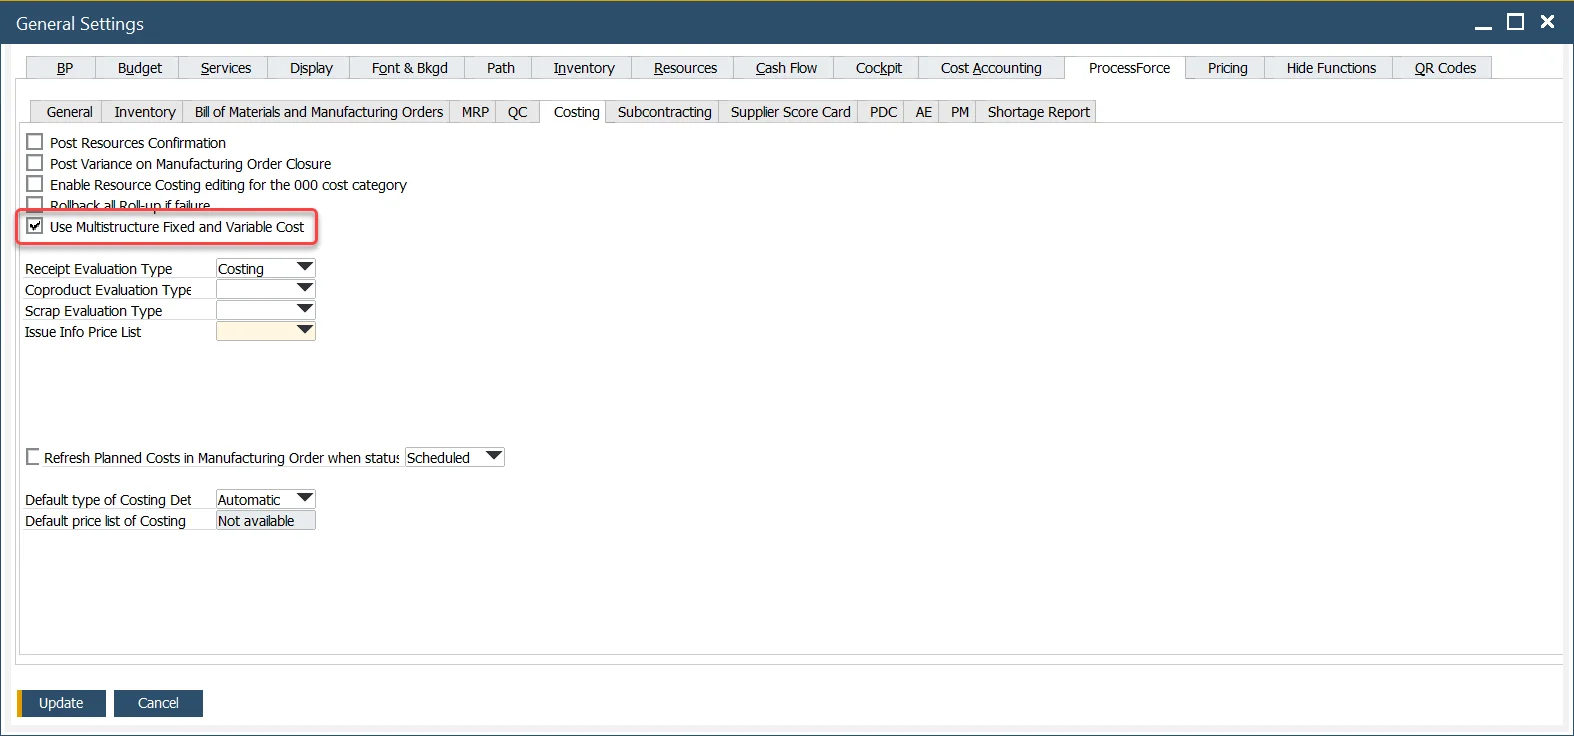
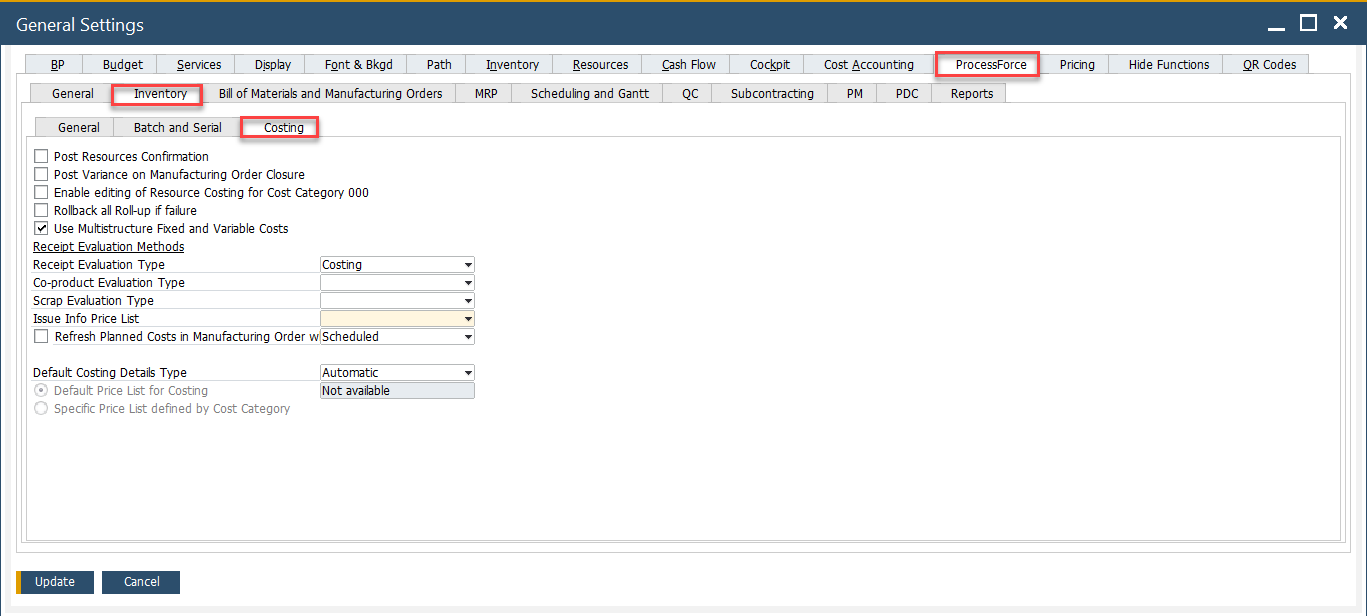
Update

Changed region(s): [[0.0, 0.0, 1.0, 1.0]]

diff --git a/docs/processforce/user-guide/supplier-score-card.md b/docs/processforce/user-guide/supplier-score-card.md
@@ -1,0 +1,116 @@
+---
+sidebar_position: 15
+---
+
+# Supplier Score Card
+
+The Supplier Score Card provides a structured and measurable way to evaluate supplier performance across key metrics such as quality, delivery accuracy, and timeliness. Using a weighted scorecard system, it helps identify strengths and areas for improvement, supporting better procurement decisions.
+
+---
+
+:::info caution
+    - The delivery and quantity calculations on the Supplier Score Card are based on the relationship between Purchase Order and Goods Receipt PO documents. It is crucial that a specific Purchase Order and corresponding Goods Receipt PO are linked correctly for the function to work properly. This can be achieved by creating a Goods Receipt Purchase Order using the "Copy To" option from a Purchase Order, or by linking the Purchase Order using the "Copy From" option in the Goods Receipt PO.
+    - Please note that dates are compared between the individual lines of the documents, not the document header dates.
+:::
+
+## Settings
+
+### General Settings
+
+To access Supplier Score Card, navigate to:
+
+:::info Path
+    Administration → System Initialization → General Settings → ProcessForce tab → Supplier Score Card tab
+:::
+
+➡ Learn more about [Supplier Score Card General Settings Options](./system-initialization/general-settings/reports-tab.md#supplier-score-card)
+
+## Supplier Score Card from Business Partner
+
+You can also access the form for a specific Business Partner from the Business Partner form header context menu (available only when the BP type is set to Supplier for this Business Partner).
+
+:::info Path
+Business Partners → Supplier Score Card
+:::
+
+### 1. Header
+
+  In this section, you can define additional settings for a specific Supplier related to delivery and quantity.
+
+    - No of Days Early and No of Days Late define a period before and after the order date in which delivery is still acceptable.
+
+        **Example**
+
+          - The order date is 01.07.2025
+          - No of Days Early: 1
+          - No of Days Late: 2
+          - Every delivery before 14.11.2016 will be deemed as early, and every delivery after 18.11.2016 will be considered late.
+    - Quantity Over % and Quantity Under % define a range of quantity of delivery that is still acceptable.
+
+        **Example**
+
+          - The ordered quantity is 108
+          - Quantity Over %: 10
+          - Quantity Under %: 5
+          - Every delivery less than 103 will be deemed too small, and delivery more than 119 will be considered too big.
+
+### 2. Summary
+
+    ![BP - SSC](./media/supplier-score-card/bp-ssc.webp)
+
+      - **Weighted Values**: These are preset in the General Settings and are based on key quality indicators such as the number of complaints, failed quality control checks, product returns, and similar metrics.
+      - **Months to Date**: Represents the total number of transactions recorded from the start of the current month up to today. For instance, if today is October 15, it includes transactions from October 1 to 15.
+      - **Previous Month**: Refers to the weighted values calculated for the entire preceding month.
+      - **Years to Date**: Denotes the accumulated weighted values from January 1 through the current date of the ongoing year.
+      - **Previous Year**: Captures the total weighted values for the full previous calendar year, from January to December.
+
+### 3. Details
+
+    ![Supplier Score Card Details](./media/supplier-score-card/bp-ssc-details.webp)
+
+    On this tab, the values from the Summary tab are broken down into specific weighted scorecard positions. The values in the Details tab are displayed solely based on specific settings and transactions, e.g., QC Tests, Returns, etc.
+
+    **Details tab Calculation**
+
+    Note Grade = Amount / Total and Weighted Score = Weight x Grade
+
+    |        Quality         |                        No of weighted                        |                                              Weighted Value                                              |
+    | :--------------------: | :----------------------------------------------------------: | :------------------------------------------------------------------------------------------------------: |
+    |   No. of Complaints    |      A = Total Number of Complaints (for this supplier)      | ( A / Total number of Complaints (for all suppliers) ) x No of Complaints (value from General Settings)  |
+    | No. of Failed QC Tests | B = Number of Failed Tests (QC Test has the status = Failed) | ( B / Total number of QC Tests (Passed + Failed) ) x No of Failed QC Tests (value from General Settings) |
+    |     No. of Returns     |                    C = Number of Returns                     |               ( C / Total number of GRPO's ) x No of Returns (value from General setting)                |
+
+    | Deliveries  |                                                         No of                                                         |                             Weighted Value                             |
+    | :---------: | :-------------------------------------------------------------------------------------------------------------------: | :--------------------------------------------------------------------: |
+    | No. On Time |              D = Total number of GRPOs where the GRPO Posting Date is = to Purchase Order Delivery Date               | ( D / Total number of GRPO ) x No on Time (value from General setting) |
+    |  No. Early  | E = Total number of GRPOs where the GRPO Posting Date - No of Days Early Value is < than Purchase Order Delivery Date |  ( E / Total number of GRPO ) x No Early (value from General setting)  |
+    |  No. Late   | F = Total number of GRPOs where the GRPO Posting Date + No of Days Late Value is → than Purchase Order Delivery Date  |  ( F / Total number of GRPO ) x No Late (value from General setting)   |
+
+    | Quantity  |                                              No of                                              |                            Weighted Value                             |
+    | :-------: | :---------------------------------------------------------------------------------------------: | :-------------------------------------------------------------------: |
+    | No. Equal |       G = a Total number of GRPOs where the Purchase Order and GRPO quantity are the same       | ( G / Total number of GRPO ) x No Equal (value from General Settings) |
+    | No. Over  | H = Total number of GRPO where the quantity is → the Purchase Order quantity + Quantity Over %  | ( H / Total number of GRPO ) x No Over (value from General Settings)  |
+    | No. Under | I = Total number of GRPO where the quantity is < the Purchase Order quantity - Quantity Under % | ( I / Total number of GRPO ) x No Under (value from General Settings) |
+
+### 4. Notes
+
+    You can add any relevant comments or observations related to the scorecard.
+
+    ![Notes](./media/supplier-score-card/bp-ssc-notes.webp)
+
+### 5. Attachment
+
+    Here you can add, display or delete files connected to the Score Card.
+
+    ![Attachments](./media/supplier-score-card/bp-ssc-attachments.webp)
+
+## Usage
+
+1. Activate the Supplier Score Card form.
+2. Select the supplier you wish to assess.
+3. Fill in exceptions like delivery delays or quantity discrepancies.
+4. Add document  as necessary for additional context.
+5. Find/load created Supplier's Score Card.
+6. Review Summary and Details.
+
+---

diff --git a/docs/processforce/user-guide/system-initialization/general-settings/reports-tab.md b/docs/processforce/user-guide/system-initialization/general-settings/reports-tab.md
@@ -72,78 +72,7 @@ You can also access the form for a specific Business Partner from the Business P
 Business Partners → Supplier Score Card
 :::
 
-#### 1. Header
-
-  In this section, you can define additional settings for a specific Supplier related to delivery and quantity.
-
-    - No of Days Early and No of Days Late define a period before and after the order date in which delivery is still acceptable.
-
-        **Example**
-
-          - The order date is 01.07.2025
-          - No of Days Early: 1
-          - No of Days Late: 2
-          - Every delivery before 14.11.2016 will be deemed as early, and every delivery after 18.11.2016 will be considered late.
-    - Quantity Over % and Quantity Under % define a range of quantity of delivery that is still acceptable.
-
-        **Example**
-
-          - The ordered quantity is 108
-          - Quantity Over %: 10
-          - Quantity Under %: 5
-          - Every delivery less than 103 will be deemed too small, and delivery more than 119 will be considered too big.
-
-#### 2. Summary
-
-    ![BP - SSC](./media/shortage-tab/bp-ssc.webp)
-
-      - **Weighted Values**: These are preset in the General Settings and are based on key quality indicators such as the number of complaints, failed quality control checks, product returns, and similar metrics.
-      - **Months to Date**: Represents the total number of transactions recorded from the start of the current month up to today. For instance, if today is October 15, it includes transactions from October 1 to 15.
-      - **Previous Month**: Refers to the weighted values calculated for the entire preceding month.
-      - **Years to Date**: Denotes the accumulated weighted values from January 1 through the current date of the ongoing year.
-      - **Previous Year**: Captures the total weighted values for the full previous calendar year, from January to December.
-
-#### 3. Details
-
-    ![Supplier Score Card Details](./media/shortage-tab/bp-ssc-details.webp)
-
-    On this tab, the values from the Summary tab are broken down into specific weighted scorecard positions. The values in the Details tab are displayed solely based on specific settings and transactions, e.g., QC Tests, Returns, etc.
-
-    **Details tab Calculation**
-
-    Note Grade = Amount / Total and Weighted Score = Weight x Grade
-
-    |        Quality         |                        No of weighted                        |                                              Weighted Value                                              |
-    | :--------------------: | :----------------------------------------------------------: | :------------------------------------------------------------------------------------------------------: |
-    |   No. of Complaints    |      A = Total Number of Complaints (for this supplier)      | ( A / Total number of Complaints (for all suppliers) ) x No of Complaints (value from General Settings)  |
-    | No. of Failed QC Tests | B = Number of Failed Tests (QC Test has the status = Failed) | ( B / Total number of QC Tests (Passed + Failed) ) x No of Failed QC Tests (value from General Settings) |
-    |     No. of Returns     |                    C = Number of Returns                     |               ( C / Total number of GRPO's ) x No of Returns (value from General setting)                |
-
-    | Deliveries  |                                                         No of                                                         |                             Weighted Value                             |
-    | :---------: | :-------------------------------------------------------------------------------------------------------------------: | :--------------------------------------------------------------------: |
-    | No. On Time |              D = Total number of GRPOs where the GRPO Posting Date is = to Purchase Order Delivery Date               | ( D / Total number of GRPO ) x No on Time (value from General setting) |
-    |  No. Early  | E = Total number of GRPOs where the GRPO Posting Date - No of Days Early Value is < than Purchase Order Delivery Date |  ( E / Total number of GRPO ) x No Early (value from General setting)  |
-    |  No. Late   | F = Total number of GRPOs where the GRPO Posting Date + No of Days Late Value is → than Purchase Order Delivery Date  |  ( F / Total number of GRPO ) x No Late (value from General setting)   |
-
-    | Quantity  |                                              No of                                              |                            Weighted Value                             |
-    | :-------: | :---------------------------------------------------------------------------------------------: | :-------------------------------------------------------------------: |
-    | No. Equal |       G = a Total number of GRPOs where the Purchase Order and GRPO quantity are the same       | ( G / Total number of GRPO ) x No Equal (value from General Settings) |
-    | No. Over  | H = Total number of GRPO where the quantity is → the Purchase Order quantity + Quantity Over %  | ( H / Total number of GRPO ) x No Over (value from General Settings)  |
-    | No. Under | I = Total number of GRPO where the quantity is < the Purchase Order quantity - Quantity Under % | ( I / Total number of GRPO ) x No Under (value from General Settings) |
-
-#### 4. Notes
-
-    You can add any relevant comments or observations related to the scorecard.
-
-    ![Notes](./media/shortage-tab/bp-ssc-notes.webp)
-
-#### 5. Attachment
-
-    Here you can add, display or delete files connected to the Score Card.
-
-    ![Attachments](./media/shortage-tab/bp-ssc-attachments.webp)
-
----
+➡ Learn more about [Supplier Score Card from Business Partner](../../supplier-score-card.md)
 
 ## Shortage Report
 
@@ -155,7 +84,7 @@ To access Shortage Report, navigate to:
 Administration → System Initialization → General Settings → ProcessForce tab → Reports tab → Shortage Report
 :::
 
-![Shortage tab](./media/shortage-tab/reports-shortage-report.webp)
+![Shortage tab](./media/shortage-tab/shortage-report.webp)
 .
 
 ### Shortage Report Options
@@ -198,4 +127,4 @@ These checkboxes determine which types of documents are considered when calculat
 
 ---
 
-➡ Learn more on how to configure the [Shortage Report](../../scheduling/gantt-chart/material-shortage.md#configuration-1).
+➡ Learn more on how to use the [Shortage Report](../../scheduling/gantt-chart/material-shortage.md#usage).

diff --git a/docs/processforce/support-procedure/health-check.md b/docs/processforce/support-procedure/health-check.md
@@ -4,20 +4,44 @@ sidebar_position: 2
 
 # Health Check
 
-ProcessForce Health Check is an option that can help diagnose some of the problems with ProcessForce. The information in this form suggests a resolution to be performed by a User. It can also be a clue for a support team consultant. Therefore, sending results from this form to a support ticket is good.
+The Health Check feature in CompuTec ProcessForce is a built-in diagnostic tool that helps identify and troubleshoot common issues within the system. Use this option whenever you notice inconsistencies or errors in the system, or as part of a routine system maintenance procedure.
+
+Health Check results offer suggestions for resolution that can be performed by users or serve as guidance for support consultants. Sharing the Health Check output when raising a support ticket helps expedite issue resolution.
+
+To access Health Check, navigate to:
 
 :::info Path
-    Upper menu → Help → Support Desk → Health Check.
+    Upper menu → Help → Support Desk → Health Check
 :::
 
 Example Health Check results:
 
 ![Health Check](./media/health-check/health-check.webp)
 
-The Health Check results table contains the following:
+## Key Settings
 
-- Test Name - a description of tested validations.
-- Type – it can be Error, Warning, or Information.
-- Additional Information – usually contains a suggested solution.
-- Documentation link – a documentation entry related to the problem.
-- Object Type and Code.
+When you run the Health Check, the results are displayed in a table with the following columns:
+
+- **Test Name**: A short description of the validation test performed.
+- **Type**: Indicates the severity of the result. It can be:
+        - **Error**: Requires immediate attention.
+        - **Warning**: May lead to issues and should be reviewed.
+        - **Information**: General system notes or suggestions.
+- **Additional Information**: Provides a suggested solution or next steps.
+- **Documentation link**: Offers direct access to relevant documentation for the identified issue.
+- **Object Type and Code**: Identifies the specific object affected (e.g., document, item, configuration).
+
+---
+
+## What the Health Check does
+
+The Health Check in ProcessForce scans various system parameters, configuration settings, and data integrity rules to detect any anomalies. Its goal is to proactively catch issues before they affect daily operations.
+
+Each test run checks for:
+
+- Incomplete configurations
+- Invalid master data references
+- System performance bottlenecks
+- Common integration errors
+
+---

diff --git a/docs/processforce/administrator-guide/licensing/license-request.md b/docs/processforce/administrator-guide/licensing/license-request.md
@@ -4,25 +4,28 @@ sidebar_position: 3
 
 # Request for a License
 
-To obtain a license file, please create a support ticket at the [CompuTec Support Portal](https://support.computec.pl) (Type: Information, Component: License request) and provide the following information:
+To use CompuTec ProcessForce, you must request a valid license. Follow these steps to request a license through the [CompuTec Support Portal](https://support.computec.pl):
+
+1. Go to the Support Portal.
+2. Create a support ticket.
+3. Type: Information, Component: License request
+4. Include the required details as listed below in your request.
 
 ---
 
 ## License Type
 
-The destined environment:
+Specify the target environment and purpose of the license:
 
-- a customer server
-- a partner internal server
+- The destined environment:
+      - a customer server
+      - a partner internal server
 
-and the license purpose:
+- The license purpose:
+      - an official purchase
+      - a demo/test license
 
-- an official purchase
-- a demo/test license
-
-:::info
-    We generate demo/test licenses for 1 Professional user by default.
-:::
+>**Info**: Demo/test licenses are generated by default for 1 Professional user.
 
 ## System Information
 
@@ -37,7 +40,7 @@ The information needed for generating the license placed on:
   - **SAP Business One Major version** (9.3, 10.0, etc.)
 
     :::caution
-    Please note that each ProcessForce license is issued for a specific major SAP Business One version. Therefore, requesting a new file on the planned upgrade between these versions is required.
+    Each license is version-specific. If you plan to upgrade to a different major version, request a new license
     :::
 
   - **SAP Business One Installation Number** (10 signs)
@@ -53,7 +56,7 @@ The information needed for generating the license placed on:
     ![About ProcessForce](./media/license-request/about-processforce.webp)
 
     :::info
-    If there is a '-1' value in the Installation Number field or the CompuTec Key field is empty, please check the [Troubleshooting](../../troubleshooting/licensing-issues.md) section.
+    If the Installation Number is “-1” or the CompuTec Key is missing, refer to the [Troubleshooting](../../troubleshooting/licensing-issues.md) guide.
     :::
 
 - **License Administration Form**

diff --git a/docs/processforce/user-guide/costing-material-and-resources/item-costing/multistructure-fixed-and-variable-overhead-costs.md b/docs/processforce/user-guide/costing-material-and-resources/item-costing/multistructure-fixed-and-variable-overhead-costs.md
@@ -13,7 +13,7 @@ In ProcessForce, businesses can define and manage both simple and structured Fix
 ### General Settings
 
 :::info Path
-    Administration → System Initialization → General Settings → ProcessForce tab → Costing tab
+    Administration → System Initialization → General Settings → ProcessForce tab → Inventory tab → Costing
 :::
 
 You can enable Multi-structure Fixed and Variable Overhead Costs option by checking the checkbox in the General Settings form under the ProcessForce tab and the Costing section.
